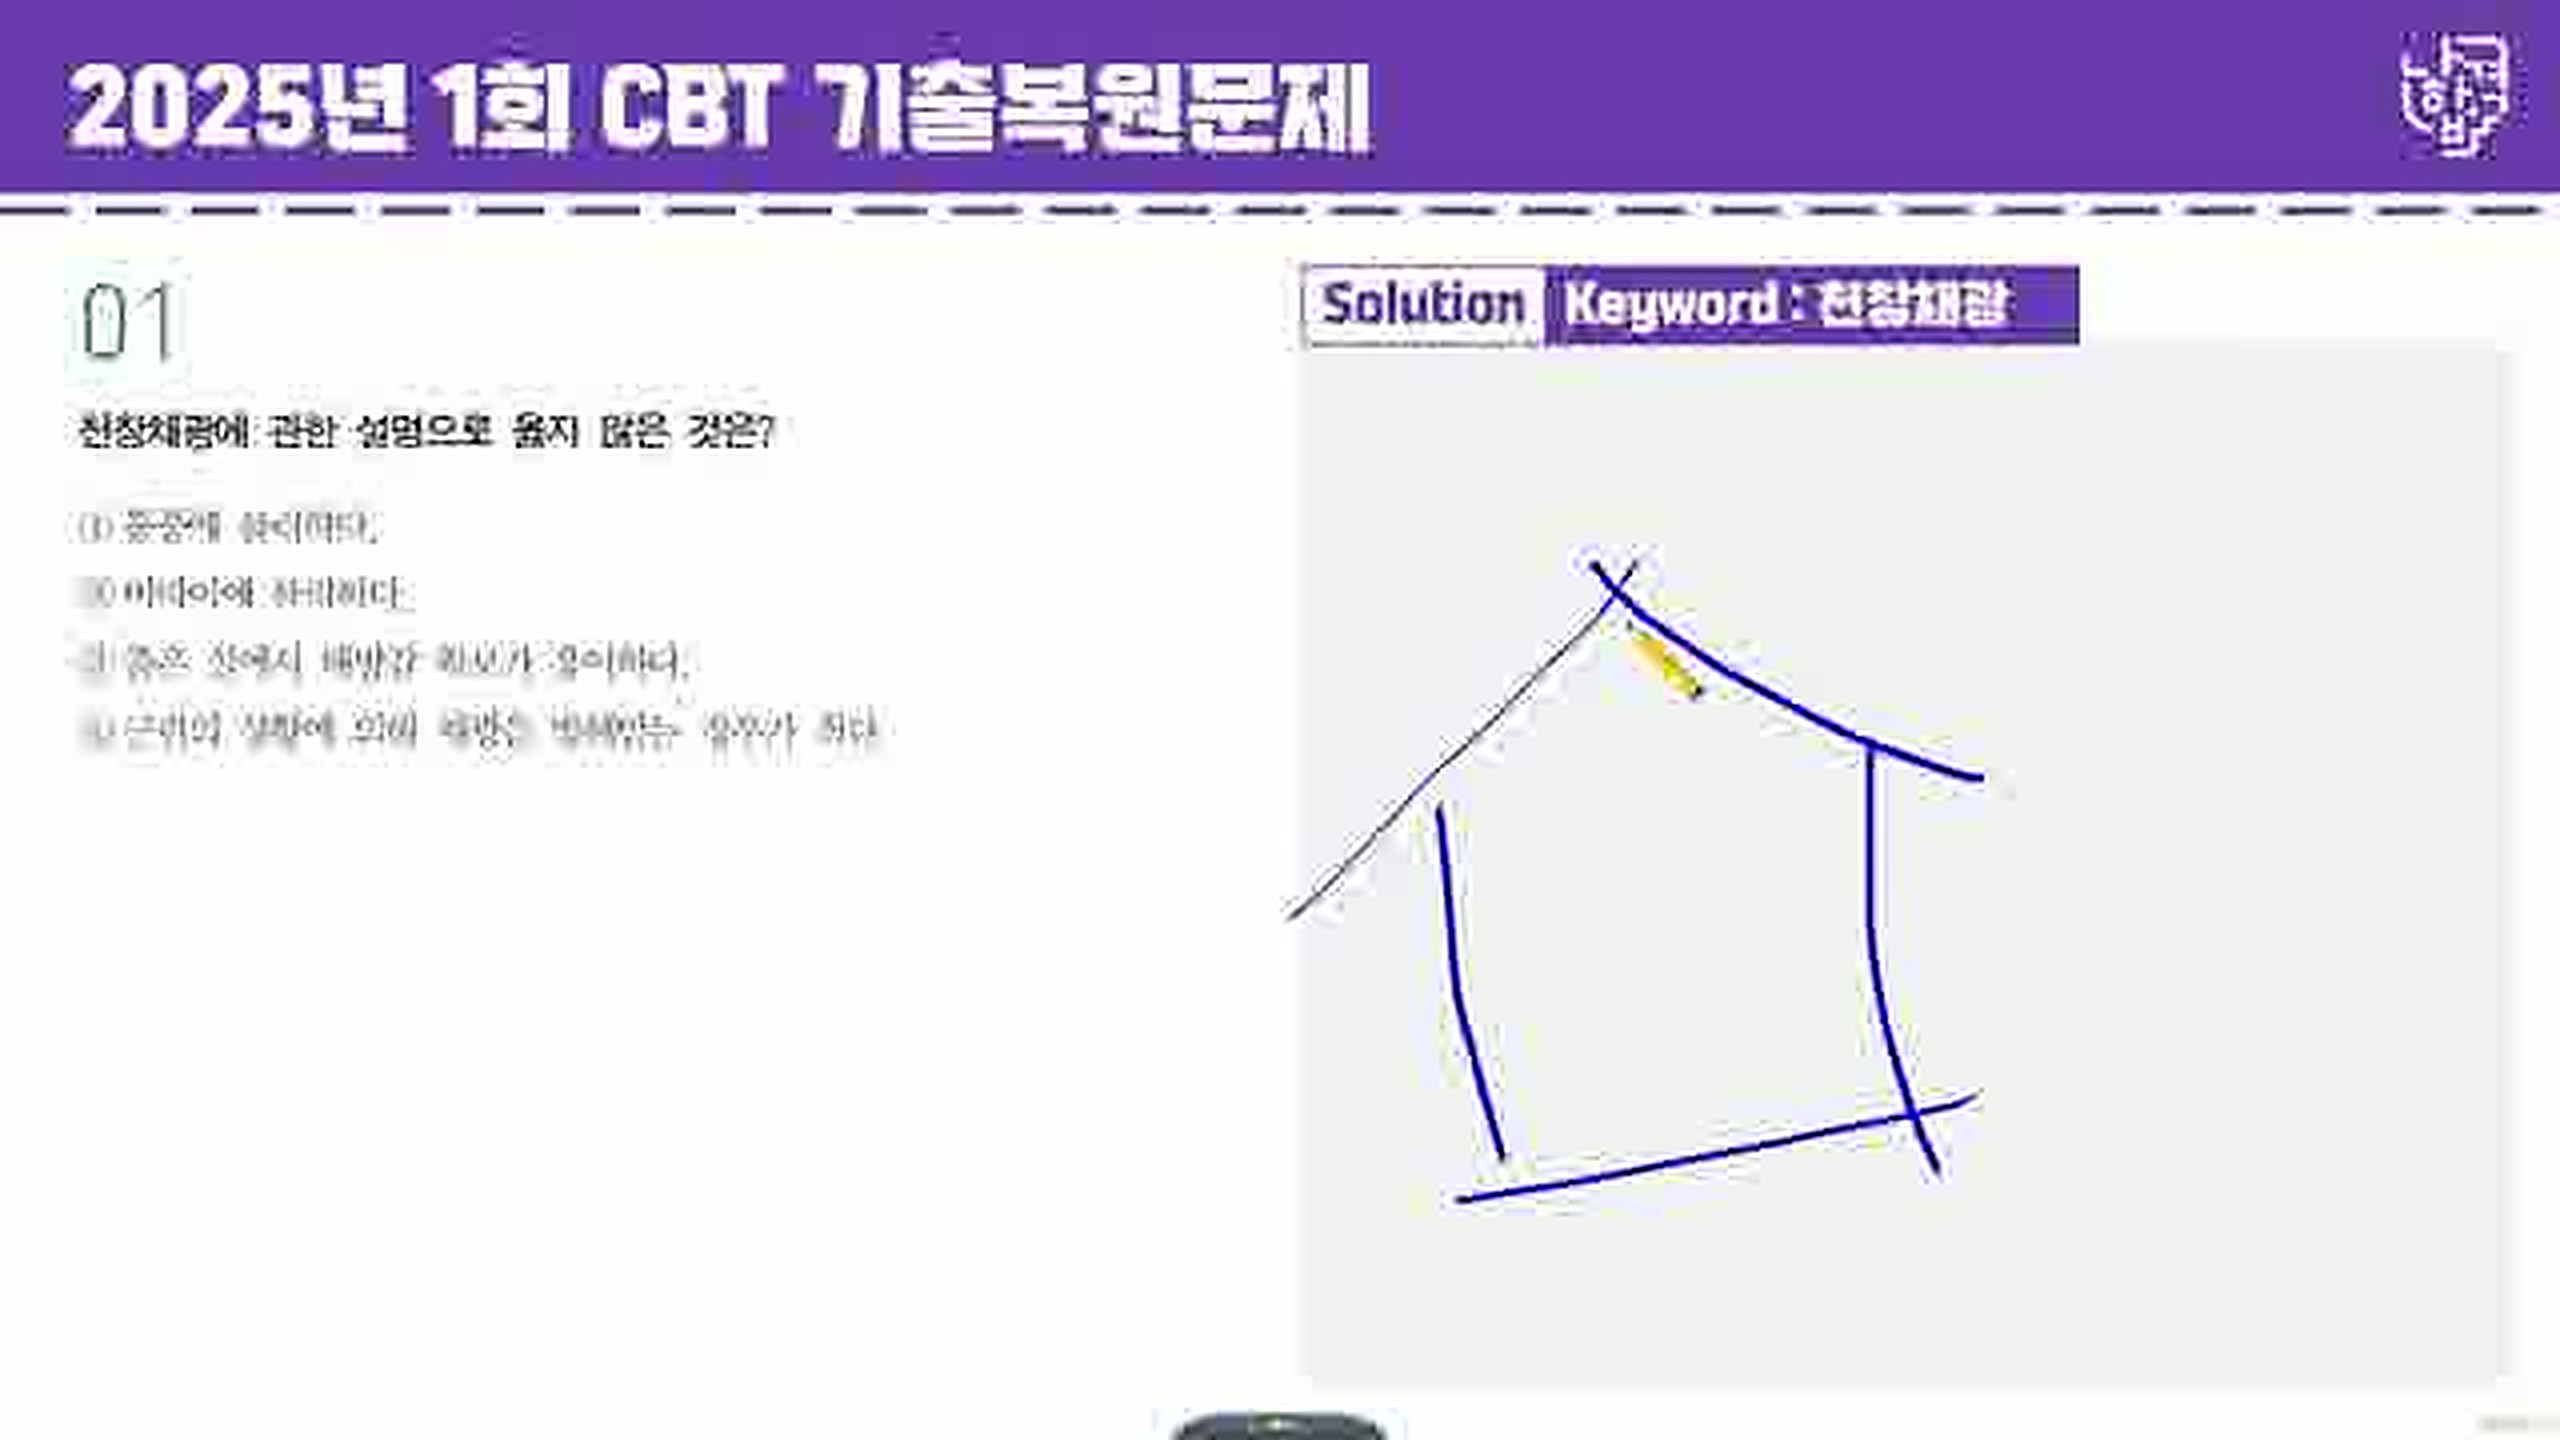
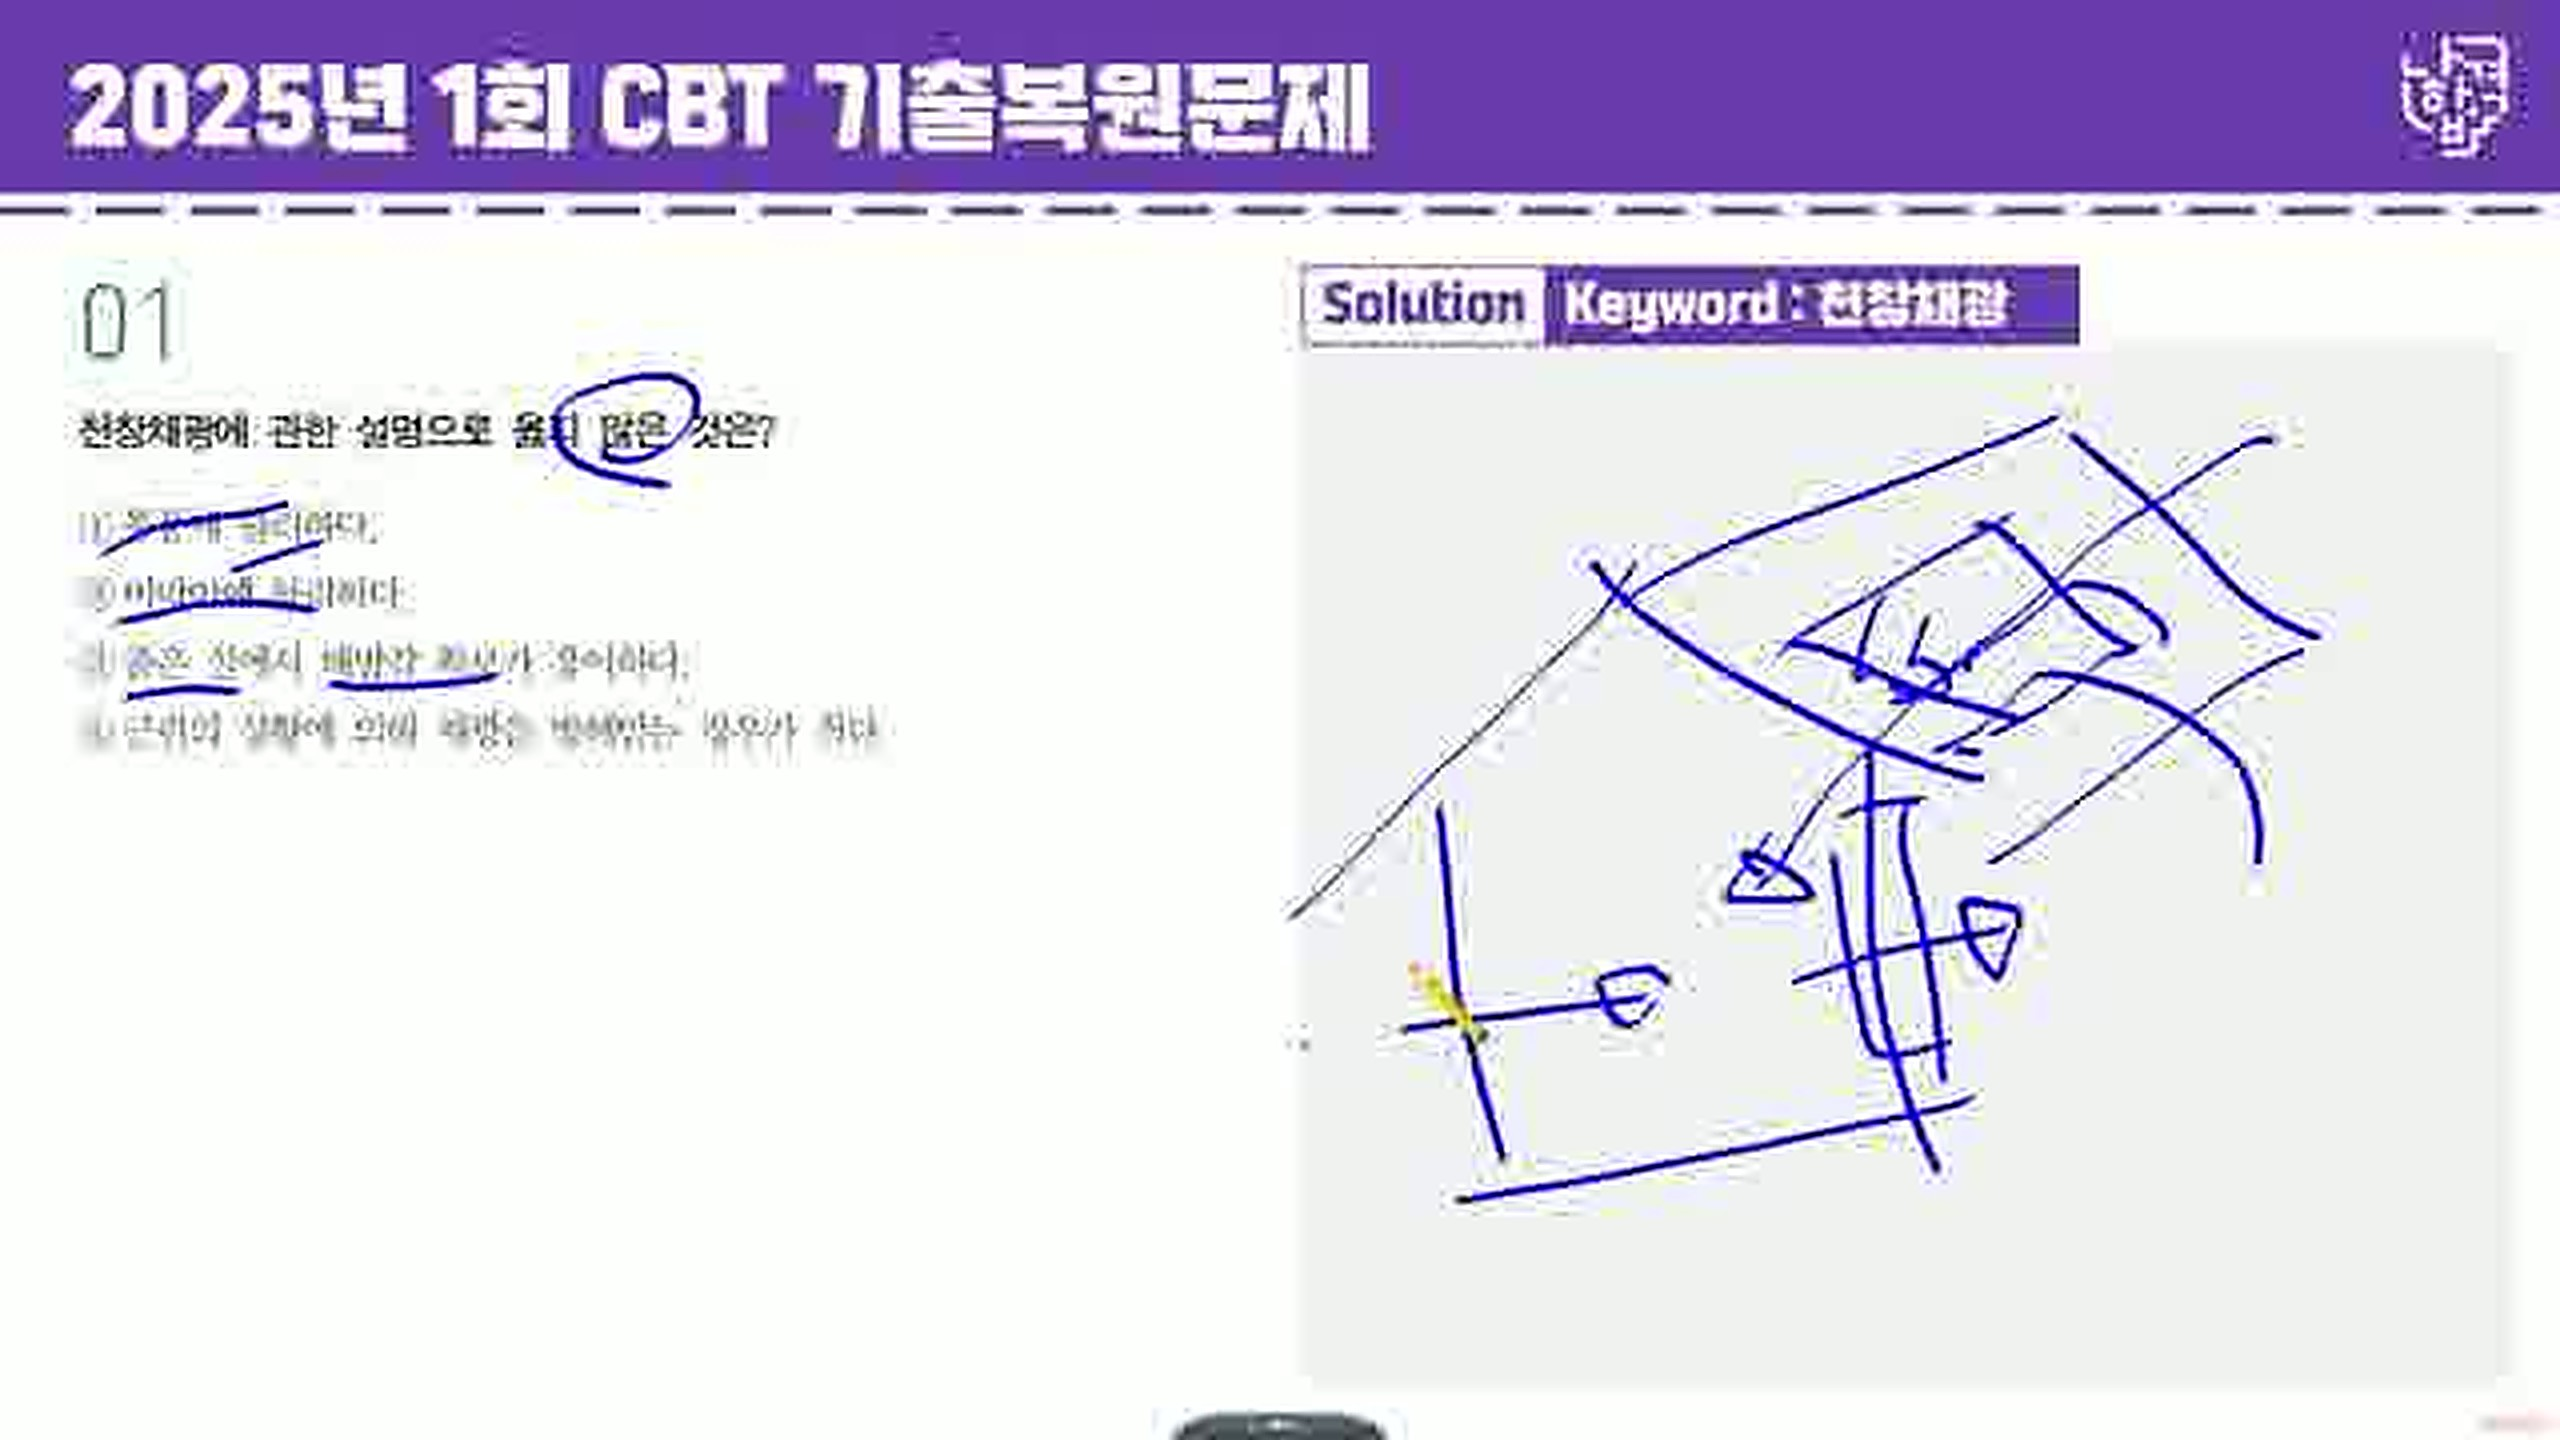
feat: 2025-1회 화면 표시 정답 PoC 1~5번
정답 상태를 미확정/추론/확정으로 두고, 표시가 분명한 1·3·4·5만 확정한다.
2번은 표시가 섞여 미확정.

diff --git a/tests/test_answers_status.py b/tests/test_answers_status.py
@@ -1,0 +1,98 @@
+"""TDD: answer status 미확정/추론/확정. No invented answers. No subtitle zip."""
+import os
+import sys
+import unittest
+
+ROOT = os.path.abspath(os.path.join(os.path.dirname(__file__), ".."))
+sys.path.insert(0, os.path.join(ROOT, "scripts"))
+
+from answers_status import (  # noqa: E402
+    CONFIRMED,
+    UNCONFIRMED,
+    INFERRED,
+    apply_answers_to_note,
+    format_answer_line,
+    parse_answers_from_note,
+    reset_untrusted_answers,
+    validate_mark,
+)
+
+
+NOTE = """---
+회차: 2025-1회
+---
+### 1.
+
+![](이미지/2025-1회/q01.jpg)
+
+**정답: ①**
+
+### 2.
+
+![](이미지/2025-1회/q02.jpg)
+
+**정답: 미확정**
+
+### 5.
+
+**정답: ③ (추론)**
+"""
+
+
+class TestFormat(unittest.TestCase):
+    def test_unconfirmed(self):
+        self.assertEqual(format_answer_line(None, UNCONFIRMED), "**정답: 미확정**")
+
+    def test_confirmed(self):
+        self.assertEqual(format_answer_line("③", CONFIRMED), "**정답: ③**")
+
+    def test_inferred(self):
+        self.assertEqual(format_answer_line("②", INFERRED), "**정답: ② (추론)**")
+
+    def test_confirmed_requires_choice(self):
+        with self.assertRaises(ValueError):
+            format_answer_line(None, CONFIRMED)
+
+
+class TestValidateMark(unittest.TestCase):
+    def test_only_circled_1_to_4(self):
+        self.assertEqual(validate_mark("③"), "③")
+        self.assertEqual(validate_mark("3"), "③")
+        self.assertIsNone(validate_mark("5"))
+        self.assertIsNone(validate_mark(""))
+        self.assertIsNone(validate_mark("미확정"))
+
+
+class TestParseAndApply(unittest.TestCase):
+    def test_parse_status(self):
+        parsed = parse_answers_from_note(NOTE)
+        self.assertEqual(parsed["1"]["answer"], "①")
+        self.assertEqual(parsed["1"]["status"], CONFIRMED)
+        self.assertEqual(parsed["2"]["status"], UNCONFIRMED)
+        self.assertEqual(parsed["5"]["status"], INFERRED)
+        self.assertEqual(parsed["5"]["answer"], "③")
+
+    def test_apply_only_listed_questions(self):
+        out = apply_answers_to_note(
+            NOTE,
+            {"2": {"answer": "④", "status": CONFIRMED, "source": "image"}},
+        )
+        parsed = parse_answers_from_note(out)
+        self.assertEqual(parsed["2"]["answer"], "④")
+        self.assertEqual(parsed["2"]["status"], CONFIRMED)
+        self.assertEqual(parsed["1"]["answer"], "①")
+
+    def test_reset_untrusted_clears_answers_without_image_source(self):
+        out = reset_untrusted_answers(NOTE)
+        parsed = parse_answers_from_note(out)
+        self.assertEqual(parsed["1"]["status"], UNCONFIRMED)
+        self.assertEqual(parsed["2"]["status"], UNCONFIRMED)
+        self.assertEqual(parsed["5"]["status"], UNCONFIRMED)
+
+    def test_does_not_invent_missing_numbers(self):
+        out = apply_answers_to_note(NOTE, {"99": {"answer": "①", "status": CONFIRMED}})
+        self.assertNotIn("### 99.", out)
+
+
+if __name__ == "__main__":
+    unittest.main()

diff --git a/scripts/answers_status.py b/scripts/answers_status.py
@@ -1,0 +1,97 @@
+"""Answer status: 미확정 / 추론 / 확정. Never invent. Never zip subtitles."""
+import re
+
+from answers import normalize_choice
+
+UNCONFIRMED = "미확정"
+INFERRED = "추론"
+CONFIRMED = "확정"
+
+ANSWER_LINE_RE = re.compile(
+    r"^\*\*정답:\s*(미확정|([①②③④])(?:\s*\(추론\))?)\*\*[ \t]*$",
+    re.M,
+)
+Q_HEADER_RE = re.compile(r"^###\s+(\d+)\.\s*$", re.M)
+
+
+def validate_mark(raw):
+    if raw is None:
+        return None
+    s = str(raw).strip()
+    if s in ("", "미확정", "없음"):
+        return None
+    return normalize_choice(s) if normalize_choice(s) in ("①", "②", "③", "④") else None
+
+
+def format_answer_line(answer, status):
+    if status == UNCONFIRMED or not answer:
+        if status == CONFIRMED:
+            raise ValueError("confirmed answer requires a choice")
+        return "**정답: 미확정**"
+    mark = validate_mark(answer)
+    if not mark:
+        raise ValueError("invalid choice")
+    if status == INFERRED:
+        return f"**정답: {mark} (추론)**"
+    if status == CONFIRMED:
+        return f"**정답: {mark}**"
+    return "**정답: 미확정**"
+
+
+def parse_answers_from_note(text):
+    parts = Q_HEADER_RE.split(text)
+    out = {}
+    # split: preamble, num, body, num, body...
+    i = 1
+    while i + 1 < len(parts):
+        num = parts[i]
+        body = parts[i + 1]
+        m = ANSWER_LINE_RE.search(body)
+        if not m:
+            i += 2
+            continue
+        raw = m.group(1)
+        if raw == "미확정":
+            out[num] = {"answer": None, "status": UNCONFIRMED}
+        elif m.group(0).find("(추론)") >= 0:
+            out[num] = {"answer": m.group(2), "status": INFERRED}
+        else:
+            out[num] = {"answer": m.group(2), "status": CONFIRMED}
+        i += 2
+    return out
+
+
+def apply_answers_to_note(text, updates):
+    parts = Q_HEADER_RE.split(text)
+    out = [parts[0]]
+    i = 1
+    while i + 1 < len(parts):
+        num = parts[i]
+        body = parts[i + 1]
+        upd = updates.get(str(num))
+        if upd is None and str(num).isdigit():
+            upd = updates.get(int(num))
+        if upd:
+            mark = validate_mark(upd.get("answer"))
+            status = upd.get("status") or UNCONFIRMED
+            if not mark:
+                status = UNCONFIRMED
+            line = format_answer_line(mark, status)
+            if ANSWER_LINE_RE.search(body):
+                body = ANSWER_LINE_RE.sub(line, body, count=1)
+            else:
+                body = body.rstrip() + "\n\n" + line + "\n"
+        out.append(f"### {num}.\n")
+        if body.startswith("\n"):
+            out.append(body)
+        else:
+            out.append("\n" + body)
+        i += 2
+    return "".join(out)
+
+
+def reset_untrusted_answers(text):
+    def repl(_m):
+        return "**정답: 미확정**"
+
+    return ANSWER_LINE_RE.sub(repl, text)

diff --git a/scripts/apply_image_answers.py b/scripts/apply_image_answers.py
@@ -1,0 +1,63 @@
+#!/usr/bin/env python3
+"""Apply image-confirmed answers to a round note. Optional frame swap for marked stills."""
+import json
+import os
+import sys
+
+from PIL import Image, ImageFilter
+
+sys.path.insert(0, os.path.dirname(__file__))
+from answers_status import apply_answers_to_note
+
+ROOT = os.path.abspath(os.path.join(os.path.dirname(__file__), ".."))
+VAULT = "/var/minis/mounts/minis1/obsidian-vault/지식/실내건축기능사"
+
+
+def upscale(src, dest, scale=4):
+    im = Image.open(src)
+    im = im.resize((im.width * scale, im.height * scale), Image.Resampling.LANCZOS)
+    im = im.filter(ImageFilter.UnsharpMask(radius=1.5, percent=160, threshold=2))
+    os.makedirs(os.path.dirname(dest), exist_ok=True)
+    im.save(dest, quality=90)
+
+
+def main(json_path):
+    data = json.load(open(json_path, encoding="utf-8"))
+    rid = data["round"]
+    vid = data.get("video_id")
+    frames_dir = os.path.join(ROOT, "raw/youtube", f"work_{vid}", "frames") if vid else None
+    note_paths = [
+        os.path.join(VAULT, "기출문제", f"{rid}.md"),
+        os.path.join(ROOT, "out/notes", f"{rid}.md"),
+    ]
+    updates = {}
+    for num, row in data["answers"].items():
+        updates[str(num)] = {
+            "answer": row.get("answer"),
+            "status": row.get("status") or "미확정",
+            "source": row.get("source"),
+        }
+        frame = row.get("frame")
+        if frames_dir and frame and row.get("status") == "확정":
+            src = os.path.join(frames_dir, frame)
+            if os.path.isfile(src):
+                dest_name = f"q{int(num):02d}.jpg"
+                upscale(src, os.path.join(ROOT, "out/images", rid, dest_name))
+                vault_img = os.path.join(VAULT, "기출문제", "이미지", rid, dest_name)
+                os.makedirs(os.path.dirname(vault_img), exist_ok=True)
+                Image.open(os.path.join(ROOT, "out/images", rid, dest_name)).save(vault_img, quality=90)
+                print("image", dest_name, "<-", frame)
+    for path in note_paths:
+        if not os.path.isfile(path):
+            print("missing note", path)
+            continue
+        text = open(path, encoding="utf-8").read()
+        out = apply_answers_to_note(text, updates)
+        open(path, "w", encoding="utf-8").write(out)
+        print("updated", path)
+
+
+if __name__ == "__main__":
+    if len(sys.argv) < 2:
+        raise SystemExit("usage: apply_image_answers.py metadata/poc_....json")
+    main(sys.argv[1])

diff --git a/notes/2025-1회.md b/notes/2025-1회.md
@@ -14,7 +14,7 @@
 
 ![](../images/2025-1회/q01.jpg)
 
-**정답: 미확정**
+**정답: ④**
 
 ### 2.
 
@@ -26,19 +26,19 @@
 
 ![](../images/2025-1회/q03.jpg)
 
-**정답: 미확정**
+**정답: ④**
 
 ### 4.
 
 ![](../images/2025-1회/q04.jpg)
 
-**정답: 미확정**
+**정답: ④**
 
 ### 5.
 
 ![](../images/2025-1회/q05.jpg)
 
-**정답: 미확정**
+**정답: ③**
 
 ### 6.
 
